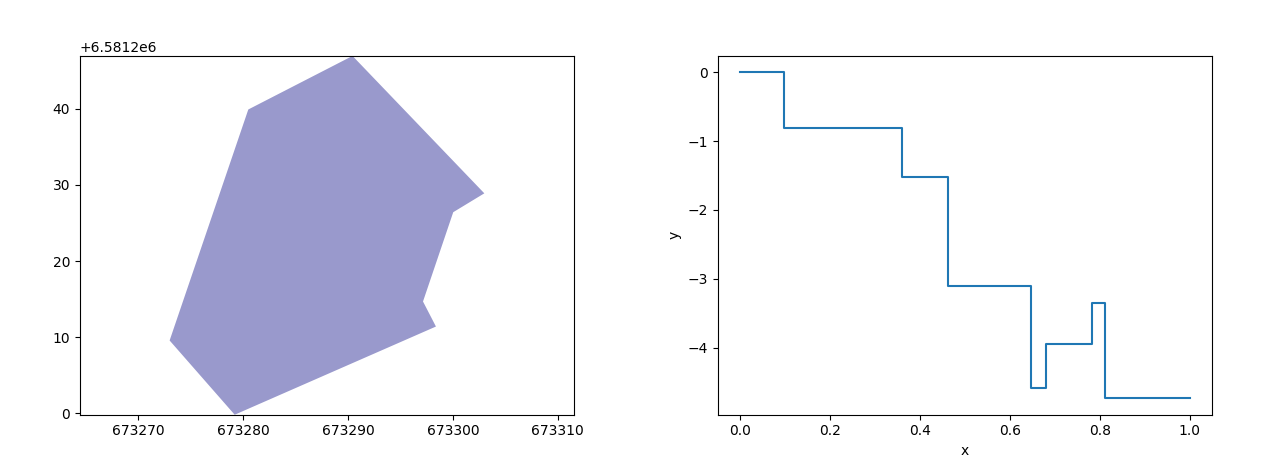
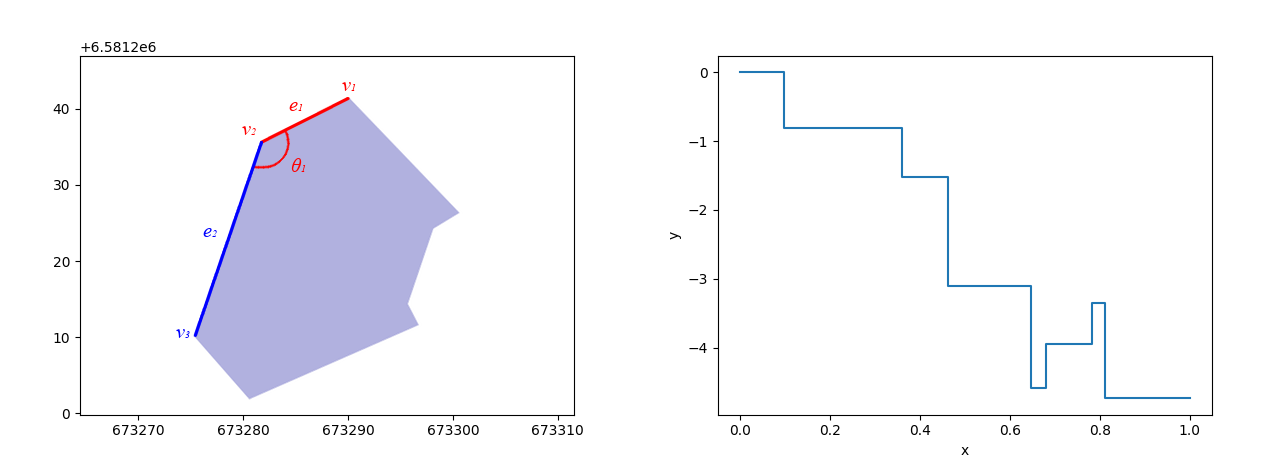
Updated turning function example image with key features

Changed region(s): [[0.1223, 0.1202, 0.3973, 0.9013]]

diff --git a/report/report.tex b/report/report.tex
@@ -290,7 +290,7 @@ See figure \ref{fig:turning-function-compare} for a side-by-side comparison of t
 \begin{figure}[H]
     \centering
     \includegraphics[width=\textwidth,height=0.5\textheight,keepaspectratio]{img_turn_function}
-    \caption{An example of the turning function of a polygon.}
+    \caption{An example of the turning function of a polygon. The edges, vertices and angle of the initial step of the turning funciton are marked.}
     \label{fig:turning-function}
 \end{figure}
 
